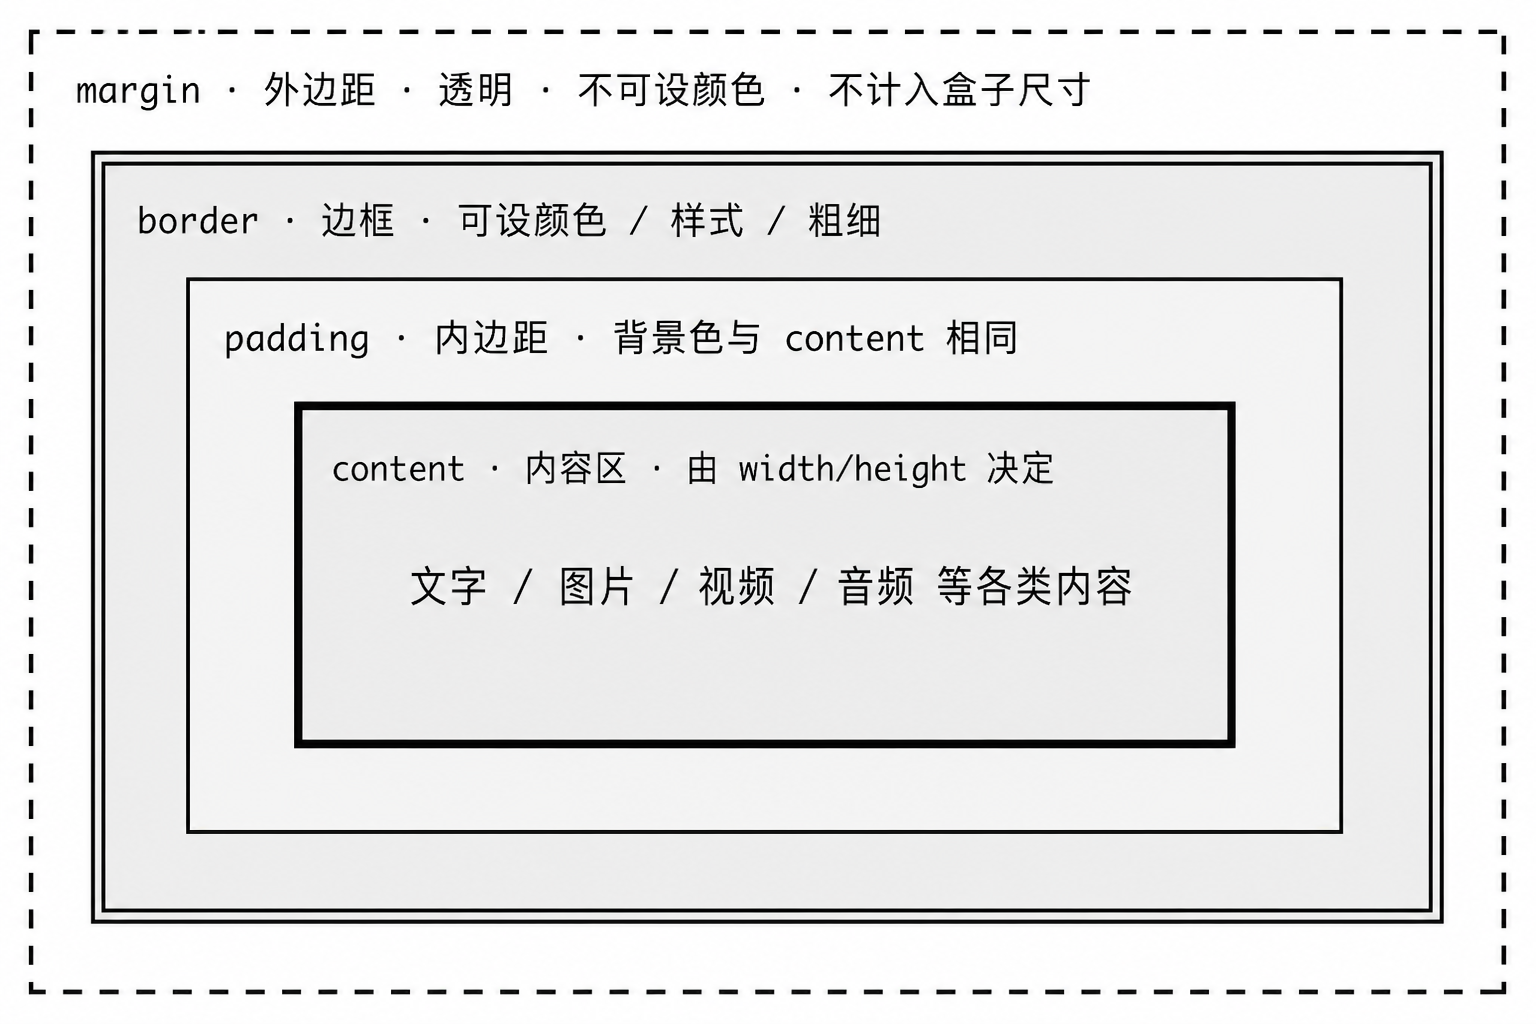
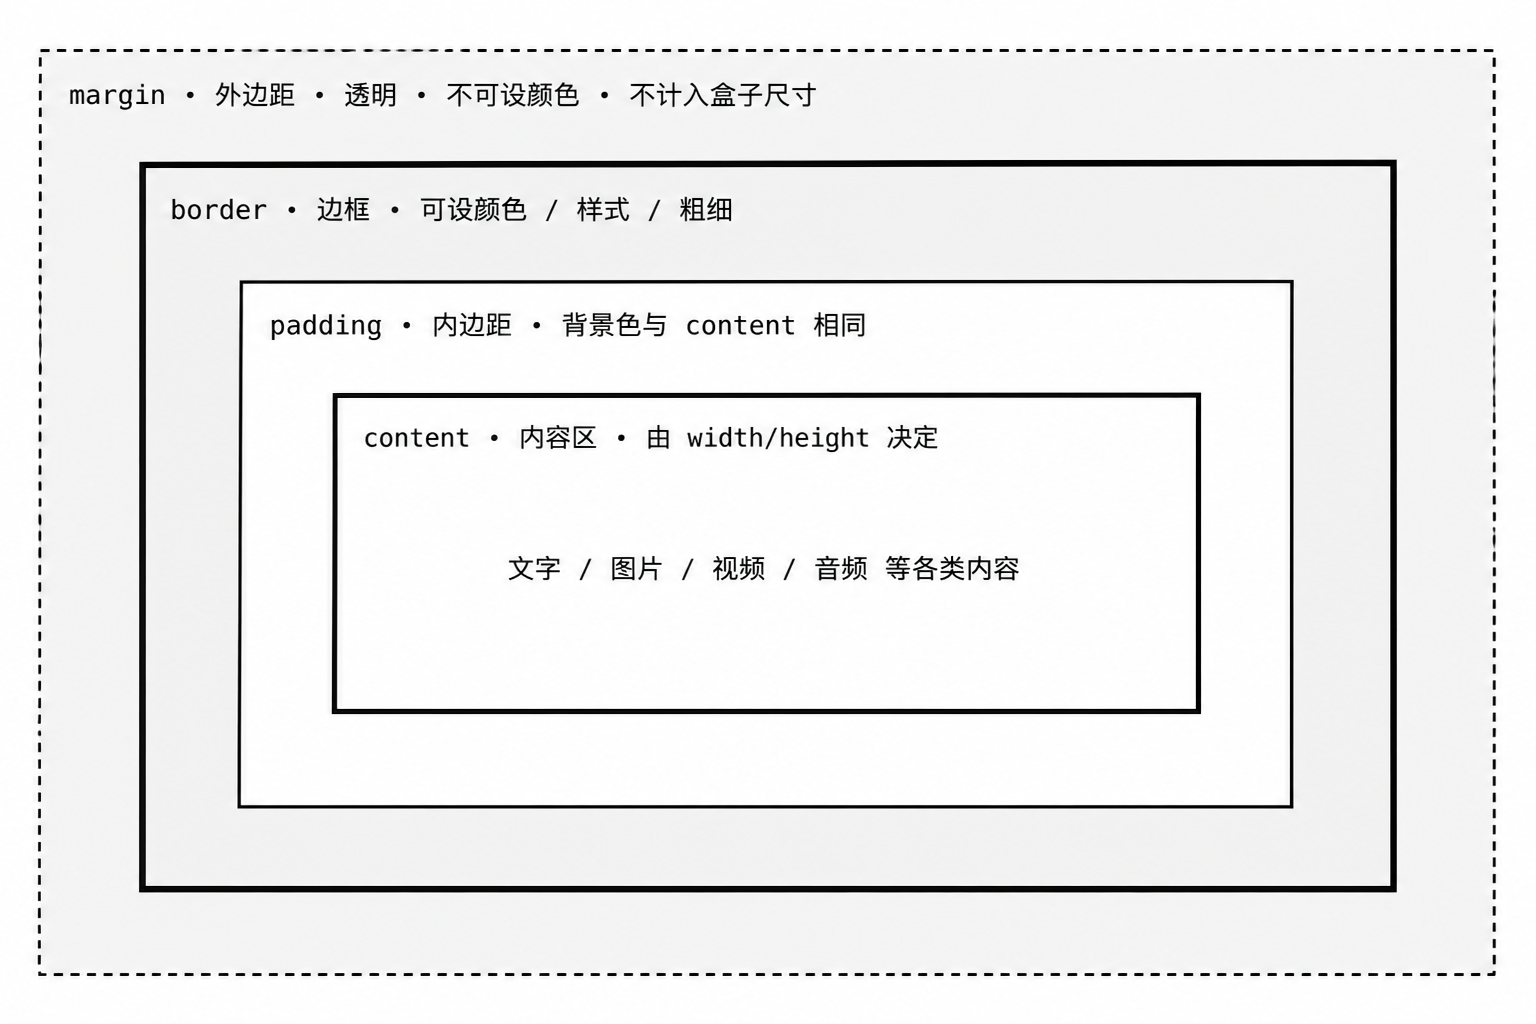
02

diff --git a/02.Frontend_Vue_WorkflowGuide.md b/02.Frontend_Vue_WorkflowGuide.md
@@ -766,7 +766,7 @@ a:hover { color: gold; text-decoration: underline; } /* 鼠标悬浮时的样式
 
     /* --- margin（外边距，不影响盒子尺寸，影响与外部的间距） --- */
     margin: 20px auto;                  /* 上下 20px，左右 auto → 块元素水平居中 */
-    margin: -1px;                       /* 负边距：使相邻盒子 border 重叠合并为一条线 */
+    margin: -1px;                       /* 负边距（上下左右均生效）：值取 border-width 的相反数，使相邻盒子 border 互相重叠合并为一条线，消除双 border */
 
     /* --- 其他常用 --- */
     display: block;                     /* 元素类型：block / inline / inline-block / none */
